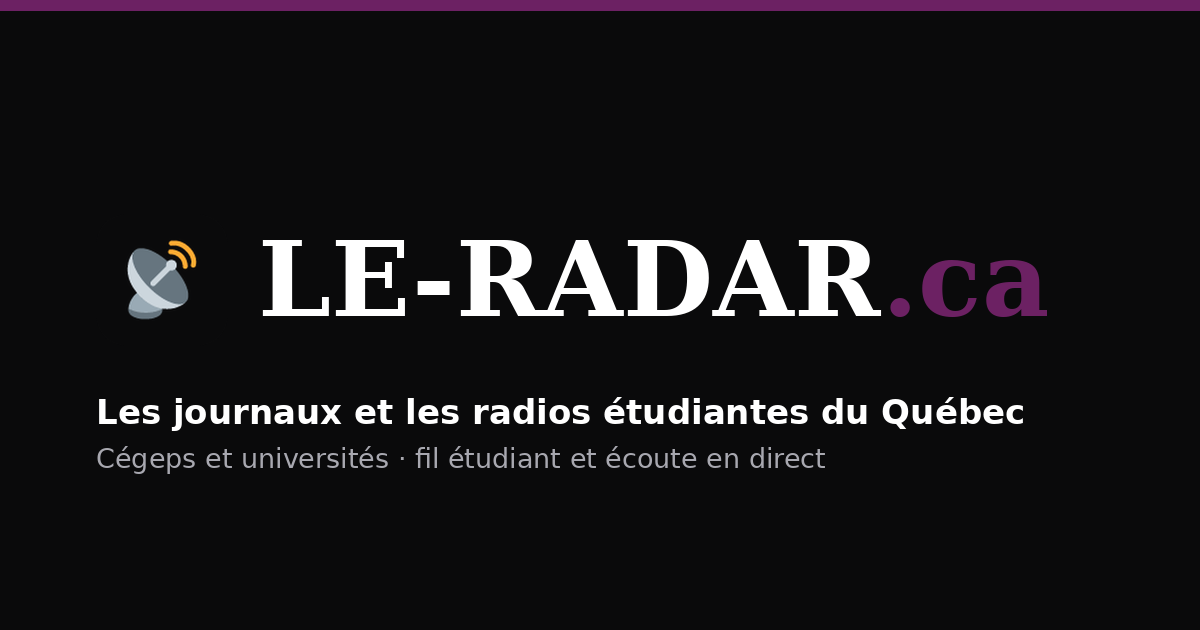
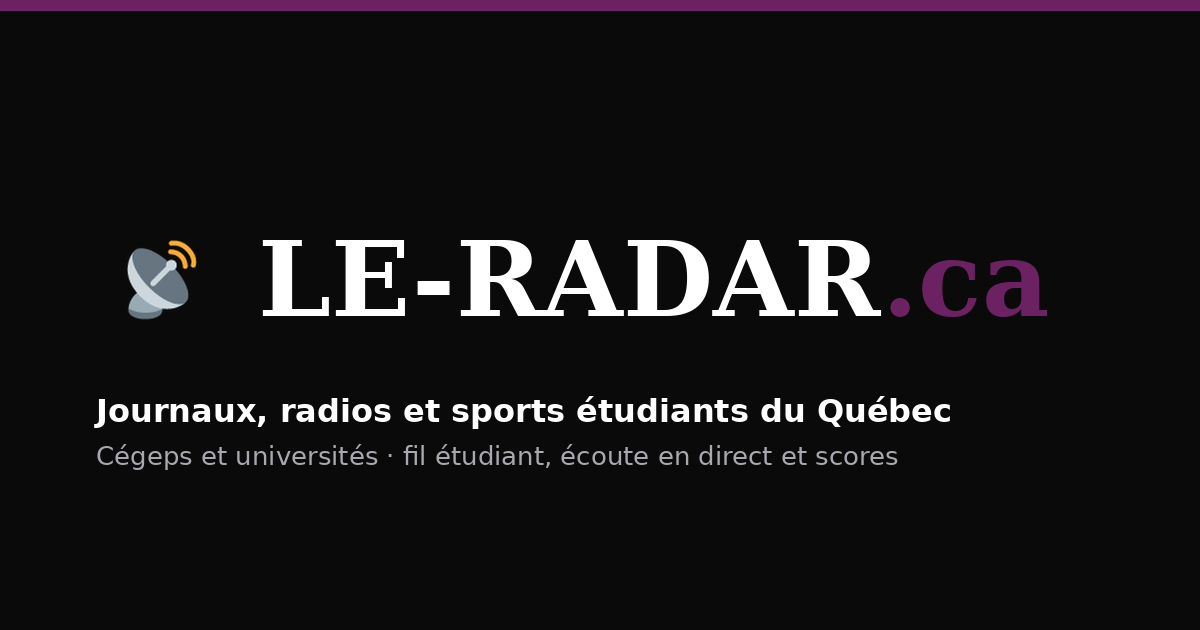
fix(og): refresh share card with sports triad
Messaging-app previews still showed the old "journaux et radios" cover.
Regenerate og-cover.png from the official slogan and bust crawler cache
with ?v=2 on the homepage and SEO page template.

Changed region(s): [[0.0617, 0.6333, 0.8633, 0.754]]

diff --git a/index.html b/index.html
@@ -25,14 +25,14 @@
     <meta property="og:url" content="https://le-radar.ca/" />
     <meta property="og:title" content="LE-RADAR.ca — Journaux, radios et sports étudiants du Québec" />
     <meta property="og:description" content="Journaux, radios et sports étudiants des cégeps et universités du Québec, réunis en un seul endroit. Actualité, écoute en direct et scores RSEQ." />
-    <meta property="og:image" content="https://le-radar.ca/assets/og-cover.png" />
+    <meta property="og:image" content="https://le-radar.ca/assets/og-cover.png?v=2" />
     <meta property="og:image:width" content="1200" />
     <meta property="og:image:height" content="630" />
-    <meta property="og:image:alt" content="LE-RADAR.ca — les médias étudiants du Québec" />
+    <meta property="og:image:alt" content="LE-RADAR.ca — journaux, radios et sports étudiants du Québec" />
     <meta name="twitter:card" content="summary_large_image" />
     <meta name="twitter:title" content="LE-RADAR.ca — Journaux, radios et sports étudiants du Québec" />
     <meta name="twitter:description" content="Journaux, radios et sports étudiants des cégeps et universités du Québec, réunis en un seul endroit." />
-    <meta name="twitter:image" content="https://le-radar.ca/assets/og-cover.png" />
+    <meta name="twitter:image" content="https://le-radar.ca/assets/og-cover.png?v=2" />
 
     <link rel="manifest" href="manifest.json" />
     <link rel="icon" href="assets/icon-32.png?v=2" type="image/png" sizes="32x32" />

diff --git a/scripts/seo-pages-lib.js b/scripts/seo-pages-lib.js
@@ -1072,9 +1072,9 @@ ${alternate ? `    <link rel="alternate" hreflang="fr-CA" href="${escapeHtml(lan
     <meta property="og:url" content="${escapeHtml(canonical)}" />
     <meta property="og:title" content="${escapeHtml(title)}" />
     <meta property="og:description" content="${escapeHtml(description)}" />
-    <meta property="og:image" content="${siteBase}/assets/og-cover.png" />
+    <meta property="og:image" content="${siteBase}/assets/og-cover.png?v=2" />
     <meta name="twitter:card" content="summary_large_image" />
-    <meta name="twitter:image" content="${siteBase}/assets/og-cover.png" />
+    <meta name="twitter:image" content="${siteBase}/assets/og-cover.png?v=2" />
 
     <link rel="icon" href="${up}assets/icon-32.png" type="image/png" sizes="32x32" />
     <link rel="icon" href="${up}assets/icon.svg" type="image/svg+xml" />

diff --git a/scripts/generate-og-image.py b/scripts/generate-og-image.py
@@ -63,22 +63,17 @@ def main() -> None:
     f_tld = font(SERIF_BOLD, 104)
     draw.text((brand_x + brand_w, logo_y + 4), ".ca", font=f_tld, fill=PURPLE)
 
-    # Accroche.
-    f_tag = font(SANS_BOLD, 34)
-    draw.text(
-        (logo_x, logo_y + logo_size + 46),
-        "Les journaux et les radios étudiantes du Québec",
-        font=f_tag,
-        fill=WHITE,
-    )
-
-    f_sub = font(SANS, 27)
-    draw.text(
-        (logo_x, logo_y + logo_size + 96),
-        "Cégeps et universités · fil étudiant et écoute en direct",
-        font=f_sub,
-        fill=MUTED,
-    )
+    # Accroche — slogan officiel (docs/identite-visuelle.md) : la triade
+    # journaux + radios + sports doit rester visible dans l'aperçu de lien.
+    f_tag = font(SANS_BOLD, 32)
+    tag = "Journaux, radios et sports étudiants du Québec"
+    f_sub = font(SANS, 26)
+    sub = "Cégeps et universités · fil étudiant, écoute en direct et scores"
+    max_text_w = W - logo_x - 48
+    if text_width(draw, tag, f_tag) > max_text_w or text_width(draw, sub, f_sub) > max_text_w:
+        raise SystemExit("og-cover: accroche trop large — raccourcir le copy ou la fonte")
+    draw.text((logo_x, logo_y + logo_size + 46), tag, font=f_tag, fill=WHITE)
+    draw.text((logo_x, logo_y + logo_size + 94), sub, font=f_sub, fill=MUTED)
 
     img.convert("RGB").save(OUT, "PNG", optimize=True)
     print(f"✅ {OUT.relative_to(ROOT)} ({W}×{H})")

diff --git a/CHANGELOG.md b/CHANGELOG.md
@@ -23,6 +23,8 @@ et respecte le [versionnage sémantique](https://semver.org/lang/fr/).
 
 ### Corrigé
 
+- L’image de partage (`og-cover.png`) disait encore « journaux et radios » sans les sports : l’aperçu de lien (Messages, Telegram, etc.) restait sur l’ancienne accroche alors que le site porte la triade. Cache `?v=2` pour forcer le rechargement chez les robots.
+
 - Le site annonçait « À venir · Capitales de Québec · 18:50 » alors que CHYZ diffusait ce match depuis 16:50 : la station réécrit sa page le jour du match (heure décalée, émission régulière évincée) tandis que la grille colligée, elle, a jusqu’à deux semaines. Une émission en ondes qui fait autorité écarte désormais tout « à venir » qu’elle recouvre — rien ne peut commencer avant la fin de ce qui joue —, côté bot comme côté site entre deux passes.
 - Ligne du bas du syntoniseur sur mobile : l’alternance slogan ↔ antenne et la bascule des phases CHOQ tournaient sur deux horloges concurrentes (14–18 s contre 8 s fixes), ce qui faisait changer le texte en cours de lecture. Une seule horloge pilote maintenant les deux.
 - Le titre de l’émission n’est plus répété entre les deux phases CHOQ ni entre le titre et le sous-titre d’une même ligne.
